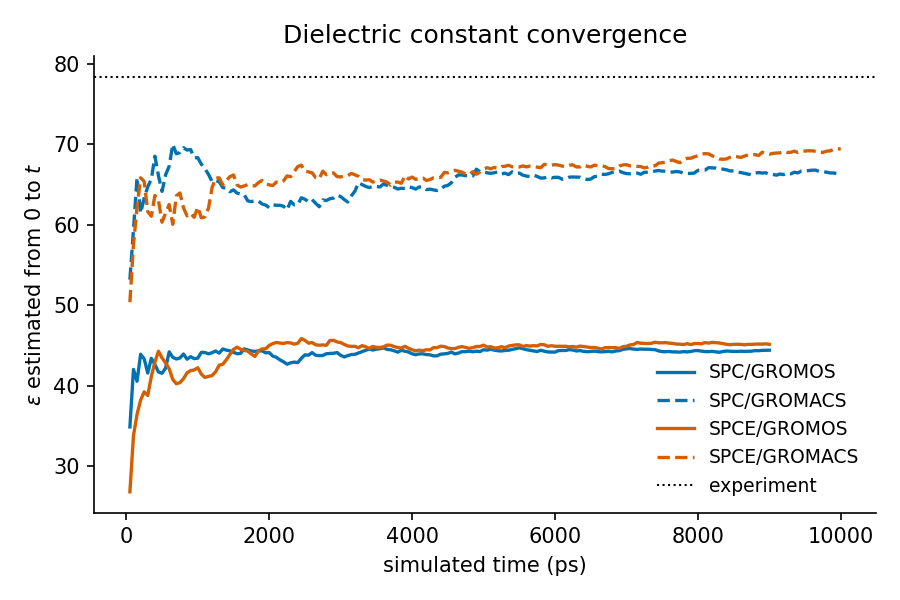
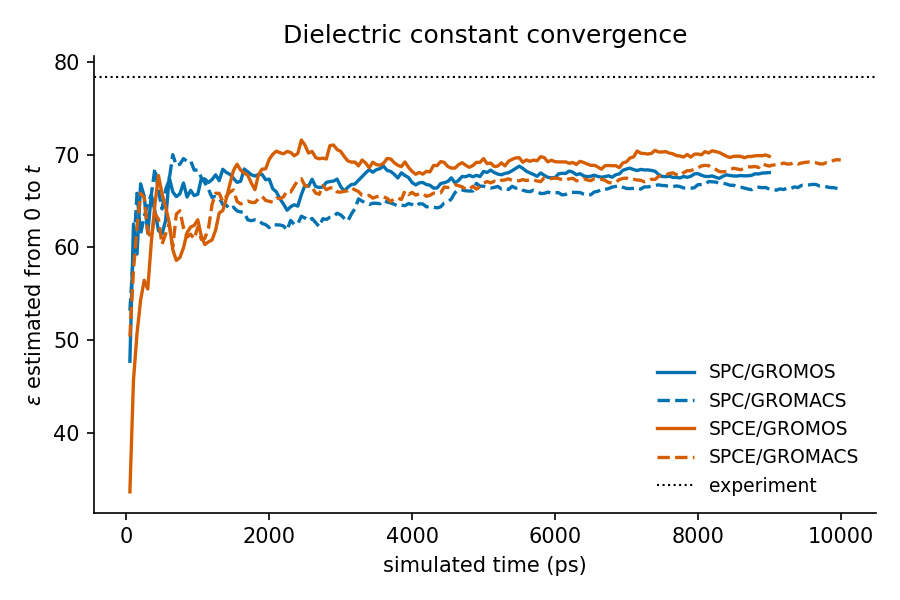
Two-engine results in the README; convergence plot through each run's relation
The GROMOS column is in and the engines agree to within 0.1% on density and
heat of vaporisation, 1-3% on diffusion and reorientation, and 2-3% on the
dielectric constant once each is read through the boundary it realises.
The running-estimate figure now draws each run through the same relation its
table entry uses, so the curve ends at the number in the table.

diff --git a/src/water_benchmarking/analysis/plots.py b/src/water_benchmarking/analysis/plots.py
@@ -43,17 +43,28 @@ def _finish(axes, path: Path) -> Path:
     return path
 
 
-def dielectric_convergence(runs: Mapping[str, object], output: Path) -> Path:
+def dielectric_convergence(runs: Mapping[str, object], output: Path,
+                           relations: Mapping[str, str] | None = None) -> Path:
     """Running epsilon against time -- the plot that says whether to believe it.
 
     A flat tail means the estimate has converged; a curve still climbing at the end
-    of the run means the number in the table is a lower bound, not a result.
+    of the run means the number in the table is a lower bound, not a result.  Each
+    run is drawn through the relation its table entry uses (the running series is
+    stored as eps = 1 + y and re-mapped through Neumann's relation where that is
+    the run's relation), so the curve ends at the number in the table.
     """
+    from .. import protocol
+    from .dielectric import _solve_epsilon
+
     _figure, axes = plt.subplots(figsize=(6, 4))
     for key, summary in runs.items():
         eps = summary.dielectric
-        if len(eps.running):
-            axes.plot(eps.times, eps.running, **_style(key))
+        if not len(eps.running):
+            continue
+        series = eps.running
+        if relations and relations.get(key, "").lower().startswith("neumann"):
+            series = np.array([_solve_epsilon(e - 1.0, protocol.EPSILON_RF) for e in series])
+        axes.plot(eps.times, series, **_style(key))
     axes.axhline(experiment.EXPERIMENT["dielectric"].value, color="k",
                  linestyle=":", linewidth=1, label="experiment")
     axes.set_xlabel("simulated time (ps)")

diff --git a/src/water_benchmarking/report.py b/src/water_benchmarking/report.py
@@ -128,9 +128,10 @@ def write_plots(results: list[Results], output_dir: Path) -> list[Path]:
     from .analysis import plots
 
     runs = {r.key: r.summary for r in results if r.summary is not None}
+    relations = {r.key: r.values.get("dielectric_relation", "") for r in results}
     written = []
     if runs:
-        written.append(plots.dielectric_convergence(runs, output_dir / "dielectric.png"))
+        written.append(plots.dielectric_convergence(runs, output_dir / "dielectric.png", relations))
         written.append(plots.mean_squared_displacement(runs, output_dir / "msd.png"))
         written.append(plots.rotational_correlation(runs, output_dir / "c2_HH.png"))
     series = {r.key: r.density_series for r in results if r.density_series is not None}

diff --git a/README.md b/README.md
@@ -27,31 +27,37 @@ wall time of one.
 
 ## Results
 
-GROMACS, 10 ns per model. GROMOS: pending. Full tables and figures in [`results/`](results/).
+10 ns per model and engine (GROMOS: ten 1 ns replicates; GROMACS: ten chained 1 ns segments).
+Full tables, per-run details and figures in [`results/`](results/).
 
-| Property | SPC | SPC/E | Experiment |
-|---|---|---|---|
-| Density (kg m⁻³) | 976.0 | 997.4 | 997.05 |
-| ΔH_vap (kJ mol⁻¹) | 44.19 | 49.27 (44.05 with the SPC/E polarisation correction) | 43.99 |
-| D (10⁻⁹ m² s⁻¹, Yeh–Hummer corrected) | 4.31 | 2.75 | 2.30 |
-| τ₂(HH) (ps) | 1.17 | 1.99 | 2.0 |
-| ε | 66.3 ± 1.7 | 69.4 ± 1.5 | 78.4 |
+| Property | SPC GROMOS | SPC GROMACS | SPC/E GROMOS | SPC/E GROMACS | Experiment |
+|---|---|---|---|---|---|
+| Density (kg m⁻³) | 974.8 | 976.0 | 996.4 | 997.4 | 997.05 |
+| ΔH_vap (kJ mol⁻¹) | 44.16 | 44.19 | 49.24 | 49.27 | 43.99 |
+| ΔH_vap, SPC/E polarisation-corrected | – | – | 44.02 | 44.05 | 43.99 |
+| D (10⁻⁹ m² s⁻¹, Yeh–Hummer corrected) | 4.45 | 4.31 | 2.78 | 2.75 | 2.30 |
+| τ₂(HH) (ps) | 1.16 | 1.17 | 1.96 | 1.98 | 2.0 |
+| ε | 68 ± 2 | 66 ± 2 | 70 ± 2 | 69 ± 2 | 78.4 |
 
-Both models behave as published: SPC/E reproduces density and (corrected) ΔH_vap to within
-0.1 %, diffuses 20 % too fast and reorients at the experimental rate; SPC is 2 % light, diffuses
-nearly twice too fast and reorients in half the time. Both underestimate ε by 12–15 %.
-Statistical errors are below the last digit shown except where given.
+The two engines agree to within 0.1 % on density and ΔH_vap, 1–3 % on D and τ₂, and 2–3 % on ε.
+Both models behave as published: SPC/E reproduces density and (corrected) ΔH_vap to within 0.1 %,
+diffuses 20 % too fast and reorients at the experimental rate; SPC is 2 % light, diffuses nearly
+twice too fast and reorients in half the time. Both underestimate ε by 11–15 %. Statistical errors
+are below the last digit shown except where given.
 
-**The dielectric constant is reported through ε = 1 + y**, where y = (⟨M²⟩−⟨M⟩²)/(3ε₀VkT).
-The textbook finite-ε_RF relation (Neumann) gives ~140 for the same trajectories: at ε_RF = 61 it
-has a pole at y = 123, fifty units from where water sits, and it presumes an ε_RF dependence of
-the fluctuation that the force field cannot carry (k_rf at ε_RF = 61 is within 2.4 % of the
-conducting-boundary value). Controls varying thermostat, cutoff (0.9–1.8 nm), box (2048–16384
-waters) and boundary condition (ε_RF = 61, ∞, PME) all give y = 59–76; see
-[`results/diagnostics.md`](results/diagnostics.md). The same controls show density, ΔH_vap, D and
-τ₂ invariant to within 1 % — except at a 0.9 nm cutoff, which lowers the density 1 %, D 7 % and
-slows reorientation 8 %; 1.4 nm is indistinguishable from 1.8. Anyone computing ε from an ATB reaction-field
-trajectory with the finite-ε_RF formula will get roughly double the true value.
+**The dielectric constant is read through the boundary condition each engine realises.** What is
+measured is the dimensionless box-dipole fluctuation y = (⟨M²⟩−⟨M⟩²)/(3ε₀VkT); the relation that
+turns it into ε depends on the electrostatic boundary. GROMOS honours the finite ε_RF = 61: its
+fluctuation is 35 % below the conducting-boundary value, exactly as Neumann's relation
+(ε−1)(2ε_RF+1)/(2ε_RF+ε) = y predicts for ε ≈ 70, and that relation gives 68 / 70. The GROMACS
+runs (GPU) show no ε_RF dependence — ε_RF = 61 and ε_RF = ∞ fluctuate alike, as does PME — so the
+conducting-boundary relation ε = 1 + y describes them, giving 66 / 69. Each read through the
+other's relation is wrong by a factor of ~2 (GROMOS 44, GROMACS 140), and the Neumann relation is
+in any case unstable near y ≈ 65 (a pole at y = 123, dε/dy ≈ 2.5–5). `results/summary.md` records y
+and both readings beside every number. Controls varying thermostat, cutoff (0.9–1.8 nm) and box
+(2048–16384 waters) leave y unchanged within scatter — and leave density, ΔH_vap, D and τ₂ within
+1 % — except a 0.9 nm cutoff, which lowers the density 1 %, D 7 % and slows reorientation 8 %;
+see [`results/diagnostics.md`](results/diagnostics.md).
 
 ## What a pure-solvent system needs
 
